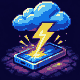
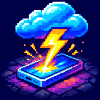
Make the pixel art more vibrant: more colours, boosted saturation, 100x100

diff --git a/index.html b/index.html
@@ -11,7 +11,7 @@
 </head>
 <body>
   <main>
-    <img class="logo" src="assets/thunderclatter.png" width="80" height="80"
+    <img class="logo" src="assets/thunderclatter.png" width="100" height="100"
          alt="Pixel-art storm cloud striking a phone with lightning">
     <h1>Thunderclatter</h1>
     <p>We make mobile apps for fun.</p>

diff --git a/README.md b/README.md
@@ -1,5 +1,5 @@
 # Thunderclatter
 
 Landing page for Thunderclatter: we make mobile apps for fun. A static site (`index.html`, `style.css`,
-`assets/thunderclatter.png`), no build step. The logo is an 80x80 pixel-art PNG, scaled with nearest-neighbour.
+`assets/thunderclatter.png`), no build step. The logo is an 100x100 pixel-art PNG, scaled with nearest-neighbour.
 Serve it from any static host, e.g. GitHub Pages.
